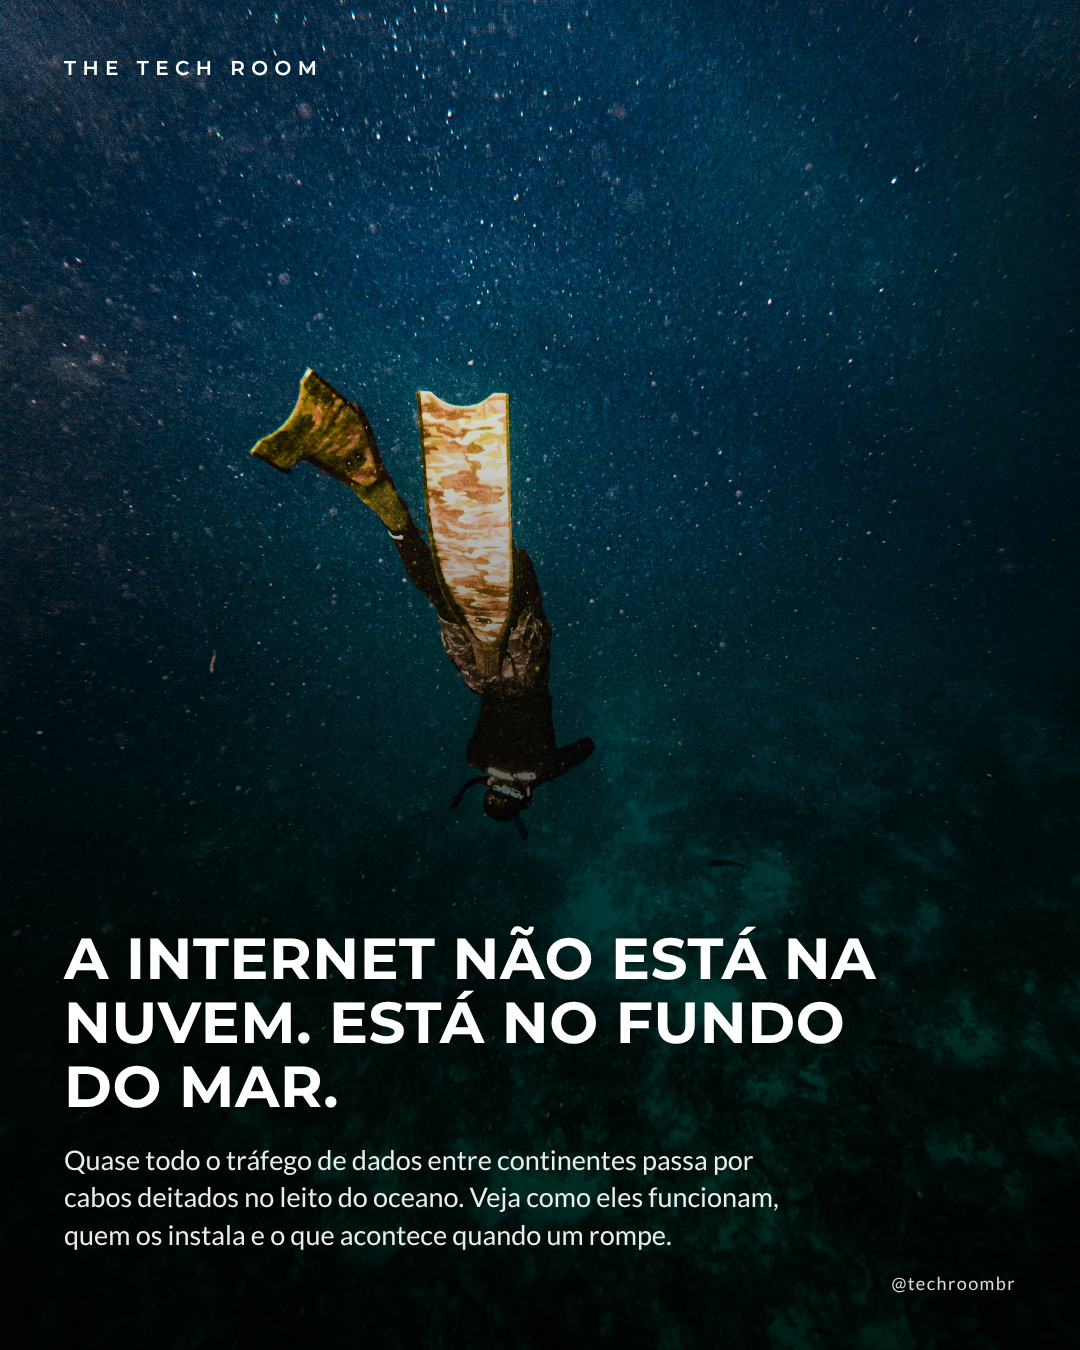
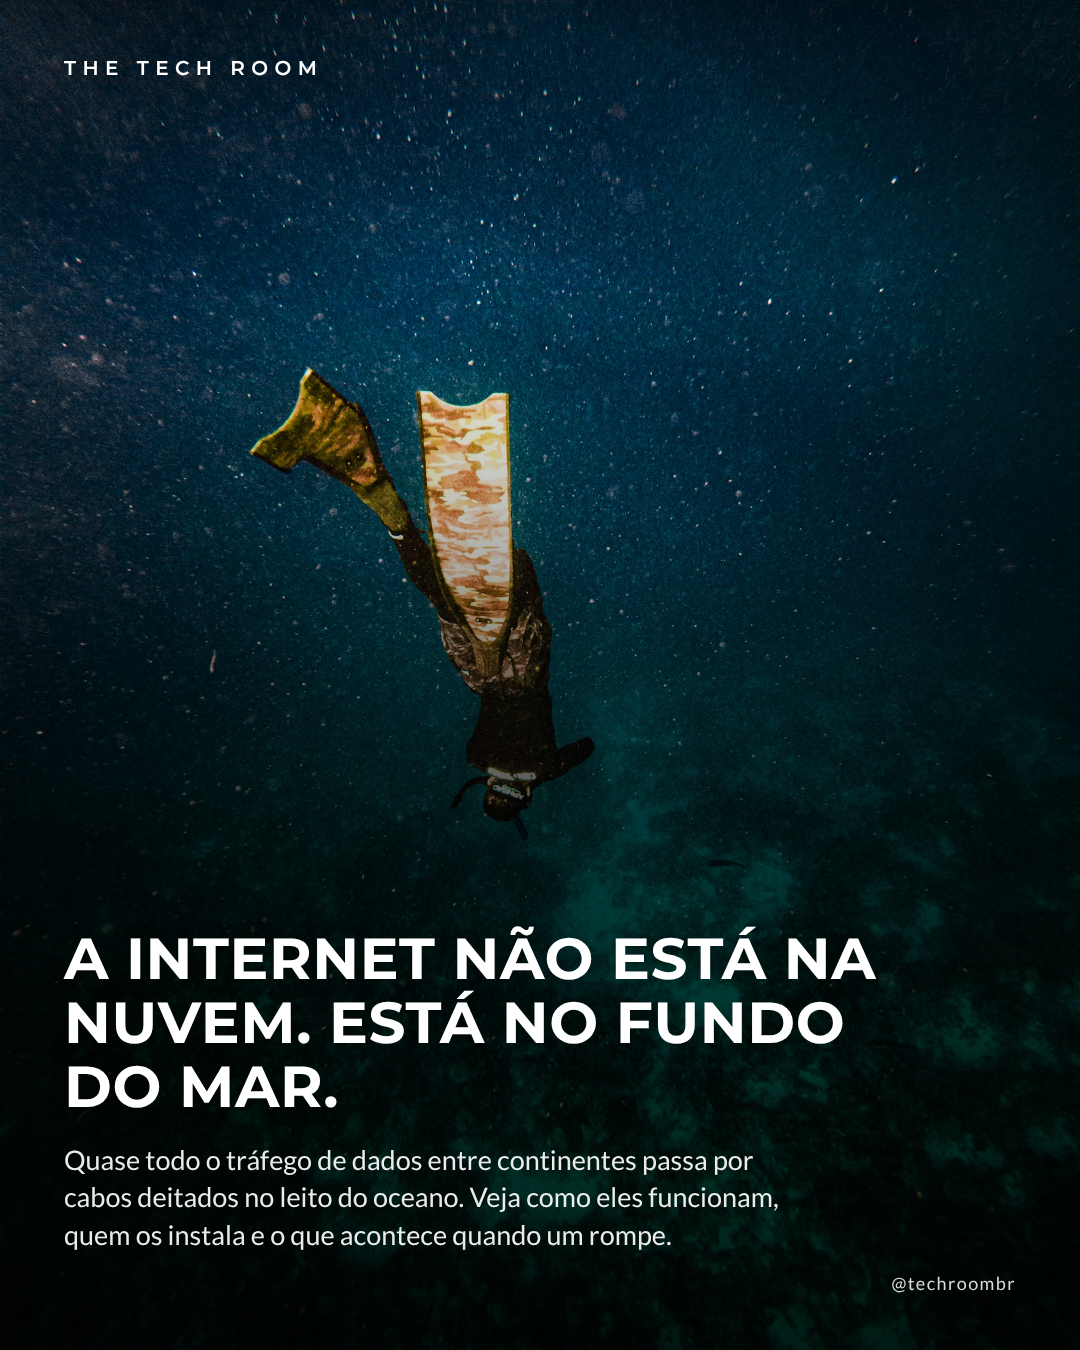
posts: ia-programadores, gps, algoritmos-para-viver + ajustes do motor
Claude-Session: https://claude.ai/code/session_01DFoqXPsg4WtmKarBEKT4dN

Changed region(s): [[0.0, 0.0, 1.0, 0.0933]]

diff --git a/engine/natgeo.html b/engine/natgeo.html
@@ -21,7 +21,7 @@
   /* fundo fotográfico: nítido (capa e páginas de foto) ou desfocado (páginas de texto e dados) */
   .bg { position: absolute; inset: 0; background-size: cover; background-position: center; }
   .scrim { position: absolute; inset: 0; }
-  .sharp .scrim { background: linear-gradient(to top, rgba(0,0,0,.88) 0%, rgba(0,0,0,.70) 38%, rgba(0,0,0,.25) 62%, rgba(0,0,0,0) 80%); }
+  .sharp .scrim { background: linear-gradient(to bottom, rgba(0,0,0,.50) 0%, rgba(0,0,0,0) 22%), linear-gradient(to top, rgba(0,0,0,.88) 0%, rgba(0,0,0,.70) 38%, rgba(0,0,0,.25) 62%, rgba(0,0,0,0) 80%); }
   .soft .scrim { background: none; }
 
   .masthead {
@@ -67,7 +67,7 @@
 
   /* gráfico de barras horizontais */
   .chart { max-width: 888px; margin: 6px 0 34px; }
-  .chart .row { display: grid; grid-template-columns: 300px 1fr 120px; align-items: center; gap: 20px; height: 64px; }
+  .chart .row { display: grid; grid-template-columns: 320px 1fr 110px; align-items: center; gap: 20px; min-height: 64px; padding: 6px 0; }
   .chart .row .name { font-size: 25px; line-height: 1.2; color: rgba(255,255,255,.92); }
   .chart .row .bar { height: 28px; background: var(--accent); border-radius: 0 4px 4px 0; }
   .chart .row.other .bar { background: rgba(255,255,255,.35); }

diff --git a/engine/natgeo.src.html b/engine/natgeo.src.html
@@ -18,7 +18,7 @@
   /* fundo fotográfico: nítido (capa e páginas de foto) ou desfocado (páginas de texto e dados) */
   .bg { position: absolute; inset: 0; background-size: cover; background-position: center; }
   .scrim { position: absolute; inset: 0; }
-  .sharp .scrim { background: linear-gradient(to top, rgba(0,0,0,.88) 0%, rgba(0,0,0,.70) 38%, rgba(0,0,0,.25) 62%, rgba(0,0,0,0) 80%); }
+  .sharp .scrim { background: linear-gradient(to bottom, rgba(0,0,0,.50) 0%, rgba(0,0,0,0) 22%), linear-gradient(to top, rgba(0,0,0,.88) 0%, rgba(0,0,0,.70) 38%, rgba(0,0,0,.25) 62%, rgba(0,0,0,0) 80%); }
   .soft .scrim { background: none; }
 
   .masthead {
@@ -64,7 +64,7 @@
 
   /* gráfico de barras horizontais */
   .chart { max-width: 888px; margin: 6px 0 34px; }
-  .chart .row { display: grid; grid-template-columns: 300px 1fr 120px; align-items: center; gap: 20px; height: 64px; }
+  .chart .row { display: grid; grid-template-columns: 320px 1fr 110px; align-items: center; gap: 20px; min-height: 64px; padding: 6px 0; }
   .chart .row .name { font-size: 25px; line-height: 1.2; color: rgba(255,255,255,.92); }
   .chart .row .bar { height: 28px; background: var(--accent); border-radius: 0 4px 4px 0; }
   .chart .row.other .bar { background: rgba(255,255,255,.35); }
